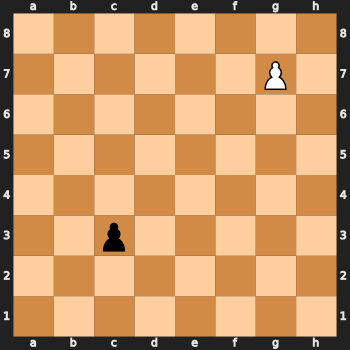
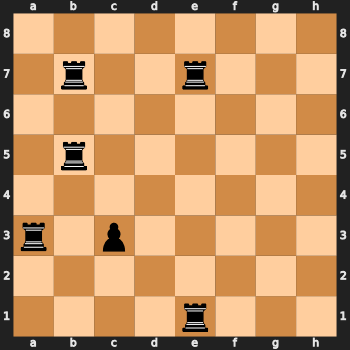
Add files via upload

diff --git a/mission.py b/mission.py
@@ -16,28 +16,21 @@ import matplotlib.image as mpimg
 import squad as sq
 import orders as ord
 
+import numpy as np
+
 class cl_mission:
 
-    def showFriendlies(self,squads,board):
-        for squad in squads:
-            sq = squad.location[1]*8+squad.location[0]
-            board.set_piece_at(square=sq , piece=chess.Piece(piece_type=chess.PAWN,color=chess.BLACK))
-        tmp = chess.svg.board(board,size=350)
-        with open("tmp.svg", "w") as text_file:
-            print("{}".format(tmp), file=text_file)
-        drawing = svg2rlg("tmp.svg")
-        renderPDF.drawToFile(drawing, "tmp.pdf")
-        renderPM.drawToFile(drawing, "tmp.png", fmt="PNG")
-        img = mpimg.imread("tmp.png")
-        plt.imshow(img)
-        plt.show()
-        return board
+    def addTerrain(self):
+        for j in range(3):
+            for i in range (np.random.randint(1,6)):
+                sq = np.random.randint(64)
+                self.board.set_piece_at(square=sq,piece=chess.Piece(piece_type=chess.ROOK,color=chess.BLACK))
 
-    def showFoes(self,squads,board):
+    def showFriendlies(self,squads):
         for squad in squads:
             sq = squad.location[1]*8+squad.location[0]
-            board.set_piece_at(square=sq , piece=chess.Piece(piece_type=chess.PAWN,color=chess.WHITE))
-        tmp = chess.svg.board(board,size=350)
+            self.board.set_piece_at(square=sq , piece=chess.Piece(piece_type=chess.PAWN,color=chess.BLACK))
+        tmp = chess.svg.board(self.board,size=350)
         with open("tmp.svg", "w") as text_file:
             print("{}".format(tmp), file=text_file)
         drawing = svg2rlg("tmp.svg")
@@ -46,7 +39,22 @@ class cl_mission:
         img = mpimg.imread("tmp.png")
         plt.imshow(img)
         plt.show()
-        return board
+        return True
+
+    def showFoes(self,squads):
+        for squad in squads:
+            sq = squad.location[1]*8+squad.location[0]
+            self.board.set_piece_at(square=sq , piece=chess.Piece(piece_type=chess.PAWN,color=chess.WHITE))
+        tmp = chess.svg.board(self.board,size=350)
+        with open("tmp.svg", "w") as text_file:
+            print("{}".format(tmp), file=text_file)
+        drawing = svg2rlg("tmp.svg")
+        renderPDF.drawToFile(drawing, "tmp.pdf")
+        renderPM.drawToFile(drawing, "tmp.png", fmt="PNG")
+        img = mpimg.imread("tmp.png")
+        plt.imshow(img)
+        plt.show()
+        return True
 
     def __init__(self,company,type="assault"):
         self.type = str(type)    # instance variable unique to each instance
@@ -59,6 +67,14 @@ class cl_mission:
         self.enemy_squads.append(sq.cl_squad(PVT=4))
         for squad in self.enemy_squads:
             squad.setLocation(6,6)
+
+        # create empty battlefield
+        self.board = chess.Board(fen=None)
+
+        # add terrain
+        self.addTerrain()
+
+
 
     def __del__(self):
         # debrief from Battalion CO

diff --git a/main.py b/main.py
@@ -48,9 +48,6 @@ def main():
         active_company.soundOff()
         input("...MOVE OUT!...")
 
-        # create empty battlefield
-        bf = chess.Board(fen=None)
-
         # mission while loop (heavy interactive)
         while(active_company.isAlive()):
             
@@ -67,11 +64,13 @@ def main():
             
             ### while loop on cl_round (ends when one side is eliminated/surrender/retreats, nb: you can do your objective and retreat and win)
 
+            # remove squads from board
+
             # show friendly troops on map
-            bf = active_mission.showFriendlies(active_squads_friends,bf) 
+            active_mission.showFriendlies(active_squads_friends) 
             
             # reveal enemy squads
-            bf = active_mission.showFoes(active_squads_foes,bf) 
+            active_mission.showFoes(active_squads_foes) 
             
             # execute orders
             active_squads = active_squads_friends+active_squads_foes
@@ -94,7 +93,7 @@ def main():
         input("...continue...")
 
     # campaign debriefing (campaign destructor)
-    active_campaign.__del__()
+    #active_campaign.__del__() # bugs saying it wasn't instantiated
 
 
 if __name__ == "__main__":

diff --git a/campaign.py b/campaign.py
@@ -17,6 +17,6 @@ class cl_campaign:
 
     def __del__(self):
         # campaign debrief
-        print("\n----> Campaign Over {}.".format(self.name))
+        print("\n----> Campaign Over.")
 
         
